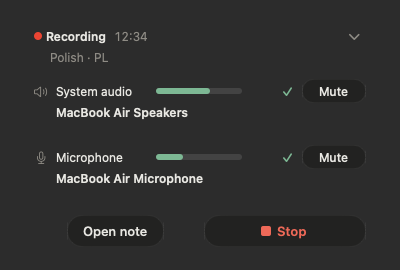
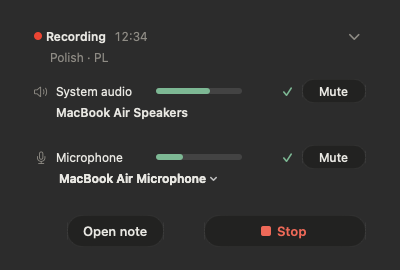
docs: README z bieżącymi funkcjami i nowymi zrzutami
Mówcy z imionami, Ask, dyktowanie, usuwanie echa, Parakeet Ultra, agent CLI,
podpis Apple Development; plany z Backlogu; zrzuty z scripts/snapshot.sh.

Changed region(s): [[0.12, 0.6222, 0.54, 0.6815]]

diff --git a/README.md b/README.md
@@ -7,27 +7,43 @@
 
 # Yascribe: skryba, który rozumie po polsku
 
-Natywna aplikacja macOS do notatek ze spotkań. Nagrywa rozmowę na Macu, zapisuje ją po polsku i układa z niej notatkę. **Do rozmowy nie dołącza żaden bot.**
+Natywna aplikacja macOS do notatek ze spotkań. Nagrywa rozmowę na Macu, zapisuje ją po polsku, rozpoznaje, kto mówi, i układa z niej notatkę. Możesz też zadawać pytania o jedno spotkanie albo całe archiwum i dyktować tekst do dowolnej aplikacji. **Do rozmowy nie dołącza żaden bot.**
 
-*English: a native macOS meeting-notes app that records system audio and microphone as two separate tracks, transcribes locally or via API, and writes notes with a model you choose. The app UI is currently English; Polish UI is planned.*
+*English: a native macOS meeting-notes app that records system audio and microphone as two separate tracks, transcribes locally or via API, tells speakers apart, writes notes with a model you choose, answers questions about your meetings and does system-wide dictation. The app UI is currently English; Polish UI is planned.*
 
-Język wybierasz sam · lokalnie albo przez API · dwa tory dźwięku · wolne oprogramowanie (GPL-3.0). Projekt jednoosobowy, w budowie. Interfejs aplikacji jest na razie po angielsku (polska wersja jest w planie), dokumenty w repo po polsku.
+Język wybierasz sam · lokalnie albo przez API · dwa tory dźwięku · wolne oprogramowanie (GPL-3.0). Projekt jednoosobowy, w budowie (wersje alfa 0.1.x). Interfejs aplikacji jest na razie po angielsku (polska wersja jest w planie), dokumenty w repo po polsku.
 
 <table>
   <tr>
     <td width="50%">
       <picture>
         <source media="(prefers-color-scheme: dark)" srcset="docs/readme/img/meetings-next-dark.png">
-        <img src="docs/readme/img/meetings-next-light.png" alt="Lista spotkań z kartą najbliższego spotkania z kalendarza">
+        <img src="docs/readme/img/meetings-next-light.png" alt="Lista spotkań z kartą najbliższego spotkania z kalendarza, folderami i polem pytań">
       </picture>
-      <b>Najbliższe spotkanie pod ręką.</b> Karta z kalendarza Apple: godzina, liczba uczestników i jeden przycisk Record. Notatka dostaje tytuł z wydarzenia.
+      <b>Najbliższe spotkanie pod ręką.</b> Karta z kalendarza Apple z jednym przyciskiem Record, foldery spotkań, a na dole pole „Ask about All meetings”.
     </td>
     <td width="50%">
       <picture>
         <source media="(prefers-color-scheme: dark)" srcset="docs/readme/img/meeting-summary-dark.png">
-        <img src="docs/readme/img/meeting-summary-light.png" alt="Notatka ze spotkania z zakładkami My notes, Transcript i Summary">
+        <img src="docs/readme/img/meeting-summary-light.png" alt="Notatka ze spotkania z zakładkami Summary, My notes i Transcript">
       </picture>
-      <b>Podsumowanie z zadaniami.</b> Szablon, kontekst i model w jednym pasku. Zadania mają właściciela, powód i termin.
+      <b>Spotkanie otwiera się na notatce.</b> Podsumowanie z zadaniami, które mają właściciela i powód. Obok Copy i Improve… do ponownego przebiegu innym modelem.
+    </td>
+  </tr>
+  <tr>
+    <td width="50%">
+      <picture>
+        <source media="(prefers-color-scheme: dark)" srcset="docs/readme/img/speakers-transcript-dark.png">
+        <img src="docs/readme/img/speakers-transcript-light.png" alt="Transkrypt z kolorowymi mówcami i listą Who is this? z uczestnikami spotkania">
+      </picture>
+      <b>Kto mówi.</b> Rozmówcy dostają numery i kolory. Kliknięcie mówcy otwiera „Who is this?” z uczestnikami z kalendarza i osobami z poprzednich spotkań.
+    </td>
+    <td width="50%">
+      <picture>
+        <source media="(prefers-color-scheme: dark)" srcset="docs/readme/img/speakers-summary-dark.png">
+        <img src="docs/readme/img/speakers-summary-light.png" alt="Notatka z klikalnymi imionami mówców w kolorach transkryptu">
+      </picture>
+      <b>Imiona także w notatce.</b> Notatka pokazuje bieżące imiona mówców. Zmiana imienia od razu poprawia notatkę, kopię i archiwum, bez ponownego generowania.
     </td>
   </tr>
 </table>
@@ -40,17 +56,22 @@ Po angielsku gotowe narzędzia działają dobrze. Polski wymaga zwykle trybu wie
 
 - **Język ustawiasz sam.** Preset łączy język z modelami transkrypcji, korekty i notatki, więc nie mogą się rozjechać. Przy starcie nagrania widzisz, że działa „Polish · PL".
 - **Polskie przerywniki znikają.** Yyy, mhm i podobne wypadają z transkryptu po korekcie. Surowy zapis zostaje nietknięty.
-- **Model, który zna polski.** Parakeet TDT v3 działa w całości na Macu: 483 MB, bez sieci, ok. 170 razy szybciej, niż trwa nagranie.
-- **Nazwy własne.** Słownik z własnymi terminami i aliasami poprawia zapis przy odczycie transkryptu, a terminy i uczestnicy z kalendarza trafiają też do poleceń korekty i notatki.
+- **Modele, które znają polski.** Parakeet TDT v3 (483 MB) i Parakeet Ultra (632 MB) działają w całości na Macu, bez sieci.
+- **Nazwy własne i odmiana.** Słownik z własnymi terminami i aliasami poprawia zapis, także w odmienionych formach. Terminy i uczestnicy z kalendarza trafiają też do poleceń korekty i notatki.
+- **Liczby pod kontrolą.** Korekta nie może zmienić sensu wypowiedzi, a notatka ostrzega, gdy pojawi się w niej liczba, której nie było w transkrypcie.
 
 ## Jak to działa
 
 1. **Nagrywasz.** Dźwięk systemowy i mikrofon trafiają do dwóch osobnych plików, nigdy do jednego miksu, bo z miksu nie da się już odzyskać czystego głosu. Każdy tor możesz wyciszyć jednym kliknięciem, a wyciszenie w Teams wycisza tor mikrofonu w nagraniu.
-2. **Transkrybujesz.** Lokalnie przez Parakeet albo przez API (OpenRouter, ElevenLabs Scribe v2). Przerwaną transkrypcję aplikacja wznawia tam, gdzie stanęła.
-3. **Poprawiasz.** Model usuwa przerywniki, a słownik poprawia nazwy własne. Długie spotkania są dzielone na części, żeby mieściły się w kontekście modelu. Przebieg możesz powtórzyć innym modelem („Transcribe again…").
-4. **Dostajesz notatkę.** Szablon z własnymi sekcjami, kontekst spotkania i model wybrany osobno dla każdego spotkania.
+2. **Transkrybujesz.** Lokalnie przez Parakeet albo przez API (OpenRouter, ElevenLabs Scribe v2, oMLX z Whisperem lub Qwen3-ASR, dowolny endpoint zgodny z OpenAI). Echo głośników jest usuwane z toru mikrofonu przed transkrypcją, więc głosy rozmówców nie lądują w „Me”. Przerwaną transkrypcję aplikacja wznawia tam, gdzie stanęła.
+3. **Rozpoznajesz mówców.** Scribe v2 sam rozdziela rozmówców. Na Macu działa lokalny model wykrywania mówców, a w chmurze także Mistral. Mówcom nadajesz imiona jednym kliknięciem.
+4. **Poprawiasz.** Model usuwa przerywniki, a słownik poprawia nazwy własne. Długie spotkania są dzielone na części, żeby mieściły się w kontekście modelu. Przebieg możesz powtórzyć innym modelem (Improve…).
+5. **Dostajesz notatkę.** Szablon z własnymi sekcjami, kontekst spotkania i model wybrany osobno dla każdego spotkania. Polecenia korekty i notatki możesz zmienić w Settings.
+6. **Pytasz.** „Ask” odpowiada na pytania o jedno spotkanie, folder albo całe archiwum, z odnośnikami do źródeł. Rozmowy zostają w „Past chats”.
 
 Gdy rozmowa w Teams się kończy, pigułka pyta „Meeting ended?" i bez odpowiedzi kończy nagranie po 5 sekundach (Continue je przerywa).
+
+**Dyktowanie.** Globalny skrót (domyślnie Fn, przytrzymaj albo naciśnij) dyktuje tekst do dowolnej aplikacji. Ten sam model transkrypcji, słownik i filtr przerywników, opcjonalna korekta, historia tylko tekstowa.
 
 <table>
   <tr>
@@ -59,7 +80,7 @@ Gdy rozmowa w Teams się kończy, pigułka pyta „Meeting ended?" i bez odpowie
         <source media="(prefers-color-scheme: dark)" srcset="docs/readme/img/pill-expanded-dark.png">
         <img src="docs/readme/img/pill-expanded-light.png" alt="Pigułka nagrywania: dwa tory z poziomami i przyciskami Mute">
       </picture>
-      <b>Pigułka podczas nagrania.</b> System i mikrofon na osobnych poziomach, z nazwą urządzenia i wyciszeniem na torze.
+      <b>Pigułka podczas nagrania.</b> System i mikrofon na osobnych poziomach, z nazwą urządzenia i wyciszeniem na torze. Mikrofon zmienisz w trakcie nagrania.
     </td>
     <td width="50%">
       <picture>
@@ -73,16 +94,16 @@ Gdy rozmowa w Teams się kończy, pigułka pyta „Meeting ended?" i bez odpowie
     <td width="50%">
       <picture>
         <source media="(prefers-color-scheme: dark)" srcset="docs/readme/img/templates-builtin-dark.png">
-        <img src="docs/readme/img/templates-builtin-light.png" alt="Edytor szablonów z listą sekcji notatki">
+        <img src="docs/readme/img/templates-builtin-light.png" alt="Edytor szablonu z listą sekcji notatki">
       </picture>
       <b>Szablony ze swoimi sekcjami.</b> Standard, 1:1, cotygodniówka, rozmowa z klientem albo własny. Każda sekcja ma opis tego, co model ma w niej zapisać.
     </td>
     <td width="50%">
       <picture>
         <source media="(prefers-color-scheme: dark)" srcset="docs/readme/img/settings-on-this-mac-dark.png">
-        <img src="docs/readme/img/settings-on-this-mac-light.png" alt="Ustawienia: model Yascribe oraz lista dostawców z Ollamą, llama.cpp i oMLX">
+        <img src="docs/readme/img/settings-on-this-mac-light.png" alt="Ustawienia: modele Parakeet na Macu i lista dostawców">
       </picture>
-      <b>Własny model albo chmura.</b> Karta modelu Yascribe, OpenRouter, ElevenLabs, Ollama, llama.cpp, oMLX i dowolny endpoint zgodny z OpenAI.
+      <b>Własny model albo chmura.</b> Parakeet na Macu, OpenRouter, ElevenLabs, Mistral, Ollama, llama.cpp, oMLX, dowolny endpoint zgodny z OpenAI, a eksperymentalnie Codex i Claude Code z Twoim logowaniem.
     </td>
   </tr>
 </table>
@@ -90,31 +111,31 @@ Gdy rozmowa w Teams się kończy, pigułka pyta „Meeting ended?" i bez odpowie
 ## Twoje dane
 
 - **Bez bota.** Nagrywa Mac, a nie uczestnik spotkania. Nikt na rozmowie nie widzi dodatkowej osoby.
-- **Wszystko lokalnie.** Nagrania, transkrypty i notatki leżą w `~/Library/Application Support/Yascribe`. Transkrypcja Parakeetem i notatka przez Ollamę, llama.cpp albo oMLX działają bez sieci. Do chmury trafia tylko to, co sam wybierzesz.
+- **Wszystko lokalnie.** Nagrania, transkrypty i notatki leżą w `~/Library/Application Support/Yascribe`. Transkrypcja Parakeetem, wykrywanie mówców na Macu i notatka przez Ollamę, llama.cpp albo oMLX działają bez sieci. Do chmury trafia tylko to, co sam wybierzesz, a aplikacja mówi przy wyborze, dokąd idzie transkrypt.
 - **Audio z terminem.** Audio możesz usuwać automatycznie po wybranym czasie, na przykład po 30 dniach. Transkrypty i notatki zostają, a audio czeka na zakończoną transkrypcję.
-- **Klucze API** trzymane są w pęku kluczy macOS i wpisujesz je sam w aplikacji.
+- **Klucze API** trzymane są w pęku kluczy macOS i wpisujesz je sam w aplikacji. Codex i Claude Code używają własnego logowania, Yascribe nie trzyma do nich kluczy.
 
 ## Instalacja
 
 1. Pobierz `Yascribe-<wersja>.zip` z [Releases](https://github.com/sharezz1/yascribe/releases/latest), rozpakuj i przeciągnij `Yascribe.app` do `/Applications`.
-2. Aplikacja jest podpisana samopodpisanym certyfikatem i **nie jest notaryzowana**, więc macOS zapyta o zgodę przy pierwszym uruchomieniu (Ustawienia systemowe → Prywatność i ochrona → „Otwórz mimo to"). Notaryzacja jest w planie.
-3. Przy pierwszym nagraniu zatwierdź dostęp do mikrofonu, dźwięku systemowego i (opcjonalnie) kalendarza. Synchronizacja wyciszenia z Teams wymaga jeszcze zgody Accessibility.
-4. Aktualizacje: Yascribe → „Check for Updates…". Instalacja zawsze na Twoje kliknięcie i nigdy nie przerywa trwającego nagrania.
+2. Aplikacja jest podpisana certyfikatem Apple Development, ale **nie jest notaryzowana**, więc macOS zapyta o zgodę przy pierwszym uruchomieniu (Ustawienia systemowe → Prywatność i ochrona → „Otwórz mimo to"). Notaryzacja jest w planie.
+3. Przy pierwszym nagraniu zatwierdź dostęp do mikrofonu, dźwięku systemowego i (opcjonalnie) kalendarza. Synchronizacja wyciszenia z Teams i dyktowanie wymagają jeszcze zgody Accessibility, a skrót dyktowania także Input Monitoring.
+4. Aktualizacje: Yascribe → „Check for Updates…" albo z menu na pasku. Instalacja zawsze na Twoje kliknięcie i nigdy nie przerywa trwającego nagrania.
 
 Wymagania: macOS 27.
 
 ## Co dalej
 
-**Mamy:** nagrywanie dwóch torów z wyciszaniem i wykrywaniem końca spotkania · transkrypcja lokalna (Parakeet v3) i przez API · korekta z filtrem przerywników · słownik z importem i eksportem · notatki z szablonów, model per spotkanie · modele lokalne (Ollama, llama.cpp, oMLX, własny endpoint) · nagrywanie na słuchawkach Bluetooth · kalendarz Apple i oferta startu przy rozmowie w Teams · archiwum z wyszukiwarką, retencją audio i jasnym/ciemnym motywem · aktualizacje jednym kliknięciem.
+**Mamy:** nagrywanie dwóch torów z wyciszaniem, wykrywaniem końca spotkania i zmianą mikrofonu w trakcie · usuwanie echa głośników z toru mikrofonu · transkrypcja lokalna (Parakeet v3, Parakeet Ultra) i przez API · rozpoznawanie mówców z imionami w transkrypcie i notatce · korekta z filtrem przerywników i własnymi poleceniami · słownik z odmianą, importem i eksportem · notatki z szablonów, model per spotkanie · Ask nad spotkaniem, folderem i archiwum · dyktowanie do dowolnej aplikacji · modele lokalne (Ollama, llama.cpp, oMLX, własny endpoint) i agent CLI (Codex, Claude Code) · nagrywanie na słuchawkach Bluetooth · kalendarz Apple i oferta startu przy rozmowie w Teams · foldery, krótki opis spotkania (Overview), archiwum z wyszukiwarką i retencją audio · jasny i ciemny motyw · aktualizacje jednym kliknięciem · narzędzie `yascribe-cli` do transkrypcji, korekty, notatek i mówców z terminala.
 
 **W kolejce:**
 - polski interfejs (aplikacja rozumie po polsku, a sama jest po angielsku),
 - klik na słowo w transkrypcie dopisuje alias do słownika; podpowiadanie słów lokalnemu modelowi (word boosting) po pomiarze,
-- **echo głośników w mikrofonie** (wysoki priorytet): usuwanie echa, żeby głosy rozmówców nie lądowały w torze „Me",
 - transkrypt na żywo i wznawianie nagrania do tej samej notatki,
-- wybór mikrofonu i wyjścia przed startem (mikrofon da się już zmienić w pigułce w trakcie nagrania).
+- kolejne lokalne modele transkrypcji,
+- „Record now” w menu na pasku.
 
-**Pomysły bez terminu:** czat nad spotkaniem i archiwum · rozpoznawanie rozmówców i zakładka z zadaniami · punkty notatki z odnośnikiem do transkryptu · MCP dla Claude i eksport do markdown · dyktowanie na żywo · wbudowany model tekstowy · Google Calendar, Outlook, Slack · notaryzacja.
+**Pomysły bez terminu:** notaryzacja i Developer ID · Google Calendar, Outlook, Slack · MCP dla Claude i eksport do markdown.
 
 ## Budowanie
 
